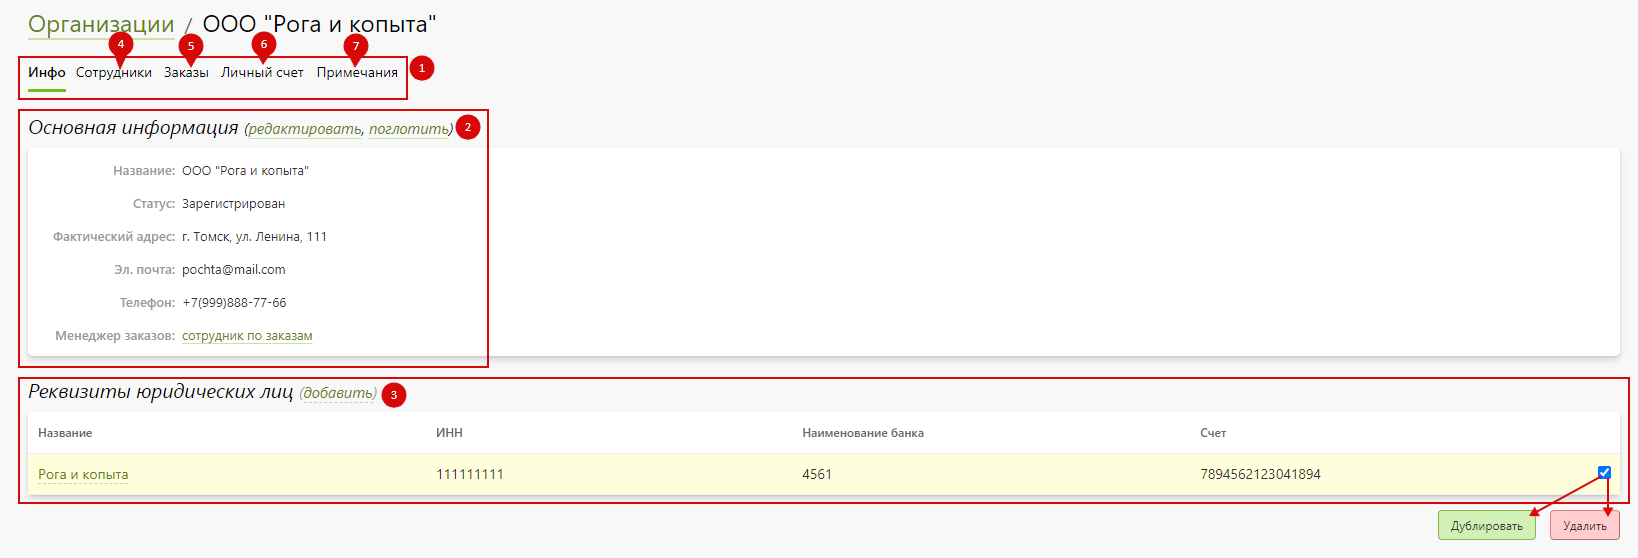
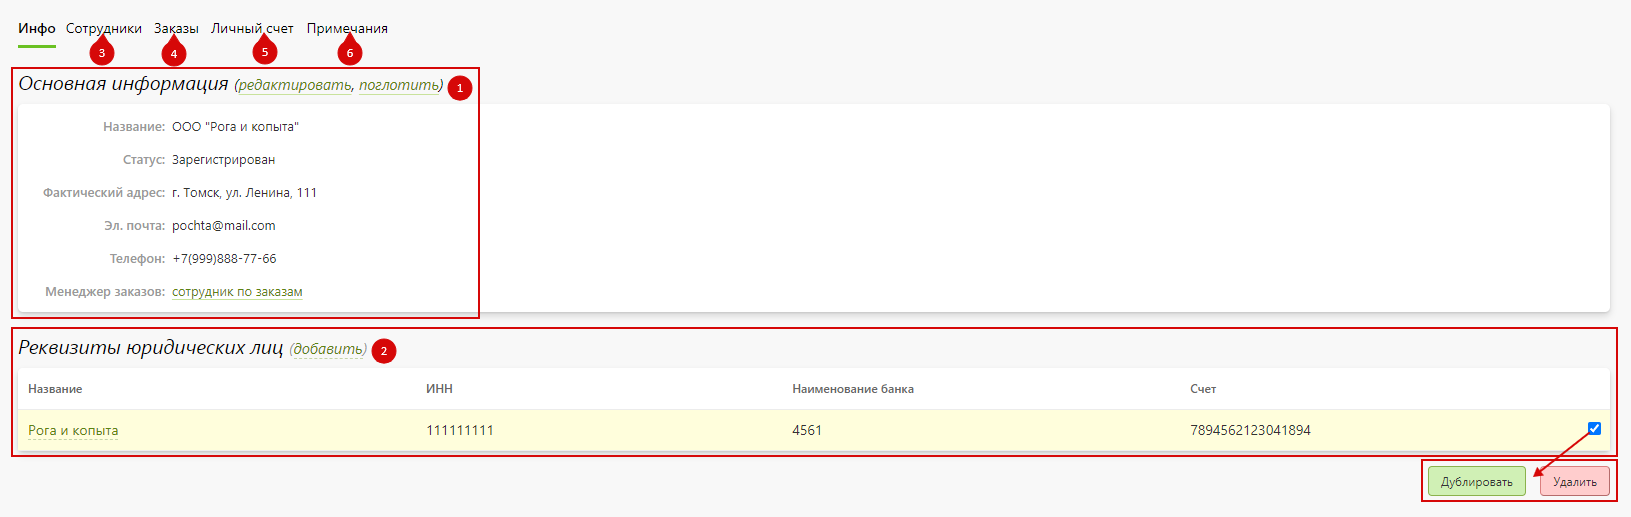
Организации, убрал Навигацию

Changed region(s): [[0.0, 0.0309, 1.0, 0.9903]]

diff --git a/docs/customers/b2b.md b/docs/customers/b2b.md
@@ -1,15 +1,7 @@
 # Профиль организации
 
 ![](../_media/customer/customer05.png ':size=70%')
-## 1. Навигация
-* Переключение по вкладкам профиля организации:
-    + Инфо
-    + Сотрудники
-    + Заказы
-    + Личный счёт
-    + Примечания
-
-## 2. Основная информация
+## 1. Основная информация
 * **Название**
 * **Статус**:
     + Зарегистрирован
@@ -24,7 +16,7 @@
     + редактировать - редактировать основные данные организации, в том числе доп. номер и минимальный баланс для предупреждения.
     + поглотить - процесс поглощения выбранной компании текущей. Все заказы, сотрудники, реквизиты и операции по л/с выбранной компании будут перепривязаны к текущей, а сама компания будет ликвидирована.
 
-## 3. Реквизиты юридических лиц
+## 2. Реквизиты юридических лиц
 * **Название**
 * **ИНН**
 * **Наименование банка**
@@ -60,10 +52,10 @@
     + Юридический адрес
     + Почтовый адрес
 * Доступные действия:
-    + Дублировать выделенные реквизиты, при этом копируются все дополнительные данные.
+    + Дублировать выделенные реквизиты.
     + Удалить выделенные реквизиты.
 
-## 4. Сотрудники
+## 3. Сотрудники
 ![](../_media/customer/customer06.png ':size=70%')
 * Подсказка - краткий справочник, какие права даются для каждой из ролей сотрудников организации. Подсказку можно Закрыть.
 * Список сотрудников организации:
@@ -75,7 +67,7 @@
     + **Роль** сотрудника.
     + Выделенных сотрудников можно **удалить**.
 
-## 5. Заказы
+## 4. Заказы
 ![](../_media/customer/customer07.png ':size=70%')
 * Фильтр заказов по статусу оплаты и по статусу заказа.
 * Список заказов от данной организации:
@@ -84,7 +76,7 @@
     + **Статус** заказа, дата назначения статуса, статус и способ оплаты.
     + **Сумма** заказа, а так же скидка по данному заказу (уже учтена в итоговой сумме).
 
-## 6. Личный счёт
+## 5. Личный счёт
 ![](../_media/customer/customer08.png ':size=70%')
 * **Дата** операции с личным счётом.
 * **Примечание** - детали операции.
@@ -94,5 +86,5 @@
     + пополнить личный счёт
     + списать средства с личного счёта
 
-## 7. Примечания
+## 6. Примечания
 * Здесь можно оставить комментарий, доступный только операторам админ-панели. Сотрудники организации данные примечания не видят.
